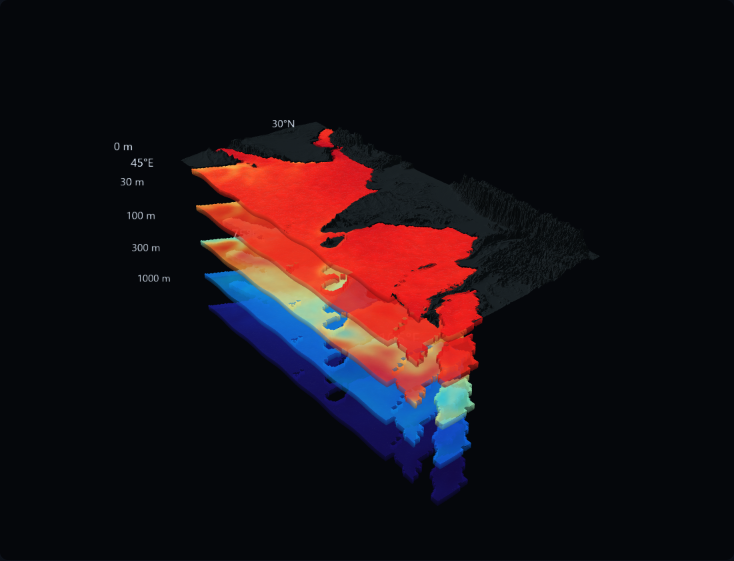
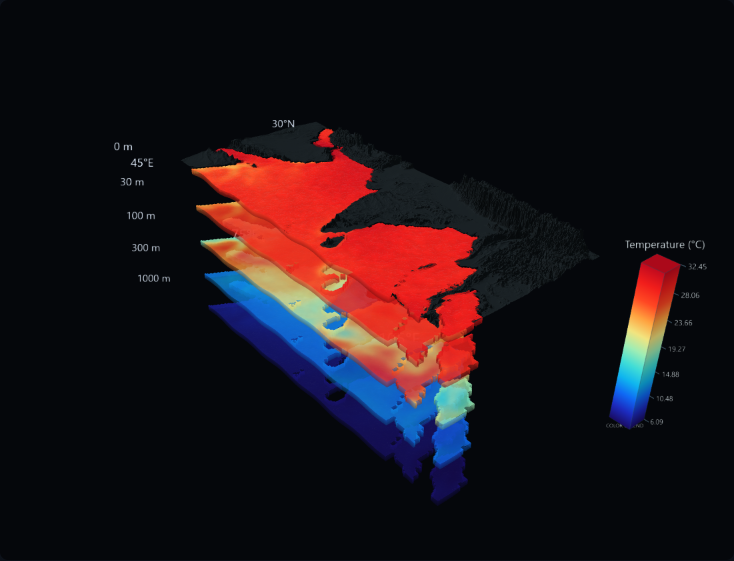
Colour Legend

Changed region(s): [[0.8093, 0.4242, 0.9591, 0.7879]]

diff --git a/web/src/components/TemperaturePrism.tsx b/web/src/components/TemperaturePrism.tsx
@@ -1,0 +1,65 @@
+import * as THREE from "three";
+import type { Layer, Palette } from "../field/contract";
+import type { Range } from "../field/colors";
+import { depthColor } from "../field/depthColors";
+
+export function prismTicks(range: Range, layer: Layer) {
+  if (!range.count || !Number.isFinite(range.min) || !Number.isFinite(range.max)) return [];
+  if (range.min === range.max) return [range.min];
+  return Array.from({ length: 7 }, (_, i) =>
+    layer === "anomaly" && i === 3 ? 0 : range.max+(range.min-range.max)*i/6);
+}
+
+/** Physical legend in the same scene and camera as the ocean, outside its footprint. */
+export function createTemperaturePrism(range: Range, layer: Layer, palette: Palette,
+  surfaceY: number, bottomY: number) {
+  const group = new THREE.Group();
+  group.name = "temperature-prism";
+  const ticks = prismTicks(range,layer);
+  if (!ticks.length) return group;
+  const height = Math.max(10, Math.abs(surfaceY-bottomY));
+  group.position.set(34, surfaceY-height/2, -17);
+  group.userData = { legend:true, ticks, title:layer === "anomaly" ? "Temperature Anomaly (°C)" : "Temperature (°C)" };
+  const pixels = new Uint8Array(1024*4);
+  for (let i=0;i<1024;i++) pixels.set([
+    ...depthColor(range.min+(range.max-range.min)*i/1023,range,layer,palette),255],i*4);
+  const texture = new THREE.DataTexture(pixels,1,1024,THREE.RGBAFormat);
+  texture.magFilter = texture.minFilter = THREE.LinearFilter;
+  texture.colorSpace = THREE.LinearSRGBColorSpace; texture.needsUpdate = true;
+  const face = (shade:number) => new THREE.MeshBasicMaterial({map:texture,
+    color:new THREE.Color().setRGB(shade,shade,shade),toneMapped:false});
+  const cap = (value:number, shade:number) => {
+    const rgb=depthColor(value,range,layer,palette);
+    return new THREE.MeshBasicMaterial({color:new THREE.Color().setRGB(
+      rgb[0]/255*shade,rgb[1]/255*shade,rgb[2]/255*shade),toneMapped:false});
+  };
+  const geometry = new THREE.BoxGeometry(3.2,height,3.2);
+  group.add(new THREE.Mesh(geometry,[face(.76),face(.76),cap(range.max,.88),cap(range.min,.6),face(1),face(.85)]));
+  group.add(new THREE.LineSegments(new THREE.EdgesGeometry(geometry),
+    new THREE.LineBasicMaterial({color:0x7194a5,transparent:true,opacity:.32})));
+  const heading = label(layer === "anomaly" ? "Temp. Anomaly (°C)" : "Temperature (°C)", 14, true);
+  heading.position.set(0,height/2+2.5,0); group.add(heading);
+  const caption = label("COLOR LEGEND",8,true);
+  caption.position.set(0,-height/2-1.4,0); group.add(caption);
+  for (const value of ticks) {
+    const t = range.min===range.max ? .5 : (value-range.min)/(range.max-range.min);
+    const text = label(value===0 ? "0" : value.toFixed(2),8);
+    text.position.set(2.5,t*height-height/2,-1.6); group.add(text);
+    const line = new THREE.BufferGeometry().setFromPoints([
+      new THREE.Vector3(1.6,t*height-height/2,-1.6),new THREE.Vector3(2.3,t*height-height/2,-1.6)]);
+    group.add(new THREE.Line(line,new THREE.LineBasicMaterial({color:0x9bb3c2,transparent:true,opacity:.6})));
+  }
+  return group;
+}
+
+function label(text:string, width:number, centered=false) {
+  const canvas = document.createElement("canvas"); canvas.width=512; canvas.height=80;
+  const ctx=canvas.getContext("2d")!;
+  ctx.fillStyle="#dce8ee"; ctx.font=centered ? "46px system-ui" : "60px system-ui";
+  ctx.textAlign=centered ? "center" : "left";
+  ctx.fillText(text,centered ? 256 : 4,54);
+  const texture=new THREE.CanvasTexture(canvas);
+  const sprite=new THREE.Sprite(new THREE.SpriteMaterial({map:texture,depthWrite:false,toneMapped:false}));
+  sprite.scale.set(width,width*80/512,1); sprite.center.set(centered ? .5 : 0,.5);
+  return sprite;
+}

diff --git a/web/src/test/temperaturePrism.test.ts b/web/src/test/temperaturePrism.test.ts
@@ -1,0 +1,41 @@
+import { expect, it, vi } from "vitest";
+import * as THREE from "three";
+import { prismTicks, createTemperaturePrism } from "../components/TemperaturePrism";
+import { depthColor } from "../field/depthColors";
+
+it("creates a world-space prism outside the ocean with the active palette", () => {
+  const context=vi.spyOn(HTMLCanvasElement.prototype,"getContext").mockReturnValue({fillText:vi.fn()} as unknown as CanvasRenderingContext2D);
+  try {
+    const range={min:-4,max:4,actualMin:-3,actualMax:4,count:20};
+    const model=createTemperaturePrism(range,"anomaly","thermal",0,-24);
+    const mesh=model.children[0] as THREE.Mesh<THREE.BoxGeometry,THREE.MeshBasicMaterial[]>;
+    expect(model.position.x-mesh.geometry.parameters.width/2).toBeGreaterThan(29);
+    expect(model.position.y+mesh.geometry.parameters.height/2).toBe(0);
+    expect(model.position.y-mesh.geometry.parameters.height/2).toBe(-24);
+    const texture=mesh.material[4].map as THREE.DataTexture;
+    const data=texture.image.data!;
+    expect(Array.from(data.slice(0,3))).toEqual(depthColor(-4,range,"anomaly","thermal"));
+    expect(Array.from(data.slice(-4,-1))).toEqual(depthColor(4,range,"anomaly","thermal"));
+    expect(model.userData.ticks[3]).toBe(0);
+    const camera=new THREE.PerspectiveCamera(38,1,0.1,500);
+    camera.position.set(76,49,62); camera.lookAt(0,-12,0); camera.updateMatrixWorld();
+    const before=model.position.clone().project(camera);
+    camera.position.set(62,49,76); camera.lookAt(0,-12,0); camera.updateMatrixWorld();
+    expect(model.position.clone().project(camera).distanceTo(before)).toBeGreaterThan(.01);
+  } finally { context.mockRestore(); }
+});
+it("derives seven descending ticks from the actual active range", () => {
+  const ticks = prismTicks({min:6.091,max:32.452,actualMin:6.091,actualMax:32.452,count:20},"temperature");
+  expect(ticks).toHaveLength(7);
+  expect(ticks[0]).toBe(32.452);
+  expect(ticks[6]).toBeCloseTo(6.091,12);
+  expect(ticks.every((v,i)=>!i || v<ticks[i-1])).toBe(true);
+});
+it("includes anomaly zero and handles constant/missing scales honestly", () => {
+  const range={min:-3.78,max:3.78,actualMin:-3.78,actualMax:2.1,count:20};
+  const ticks=prismTicks(range,"anomaly");
+  expect(ticks[3]).toBe(0);
+  expect(ticks[0]).toBeCloseTo(-ticks[6],12);
+  expect(prismTicks({...range,min:5,max:5},"temperature")).toEqual([5]);
+  expect(prismTicks({...range,count:0},"anomaly")).toEqual([]);
+});

diff --git a/web/e2e/prism.spec.ts b/web/e2e/prism.spec.ts
@@ -1,0 +1,23 @@
+import { test, expect } from "@playwright/test";
+test("prism renders in the ocean canvas through orbit and anomaly changes", async ({ page }) => {
+  const errors: string[]=[];
+  page.on("pageerror", error=>errors.push(error.message));
+  await page.goto("/#depth");
+  await expect(page.getByTestId("terrain-context")).toBeVisible();
+  const view=page.getByTestId("depth-renderer");
+  await expect(view.locator("canvas")).toHaveCount(1);
+  await expect(view.locator(".temperature-prism")).toHaveCount(0);
+  const box=(await page.getByTestId("depth-canvas").boundingBox())!;
+  await page.mouse.move(box.x+box.width*.45,box.y+box.height*.45);
+  await page.mouse.down();
+  await page.mouse.move(box.x+box.width*.52,box.y+box.height*.5,{steps:12});
+  await page.mouse.up();
+  await page.waitForTimeout(500);
+  await view.screenshot({path:"../outputs/phase7b/prism-model-orbit.png"});
+  await page.getByRole("button",{name:"Reset camera"}).click();
+  await view.screenshot({path:"../outputs/phase7b/temperature-prism-model.png"});
+  await page.getByLabel("Display layer").selectOption("anomaly");
+  await page.waitForTimeout(500);
+  await view.screenshot({path:"../outputs/phase7b/anomaly-prism-model.png"});
+  expect(errors).toEqual([]);
+});

diff --git a/web/src/components/DepthRenderer.tsx b/web/src/components/DepthRenderer.tsx
@@ -24,6 +24,7 @@ import { loadTerrain, terrainGeometry, type TerrainData } from "../field/terrain
 import { landMaterial, oceanMaterial, smoothWaterColors } from "../field/surfaceMaterials";
 import { depthColor, depthGradient } from "../field/depthColors";
 import { waterShape } from "../field/waterShape";
+import { createTemperaturePrism } from "./TemperaturePrism";
 
 export interface DepthRendererProps {
   field: FieldView;
@@ -322,6 +323,8 @@ export default function DepthRenderer(props: DepthRendererProps) {
       landMesh.renderOrder = 1;
       group.add(landMesh);
     }
+
+    group.add(createTemperaturePrism(range,layer,palette,ys[0],ys[ys.length-1]));
 
     // NO container prism. An enclosing box around the whole stack was tried and
     // removed: it reads as an aquarium, adds base volume the data does not

diff --git a/web/src/styles.css b/web/src/styles.css
@@ -758,6 +758,7 @@ td {
   grid-template-columns: minmax(0, 1fr);
 }
 .depth-renderer {
+  position: relative;
   height: 560px;
   width: 100%;
   contain: inline-size;
